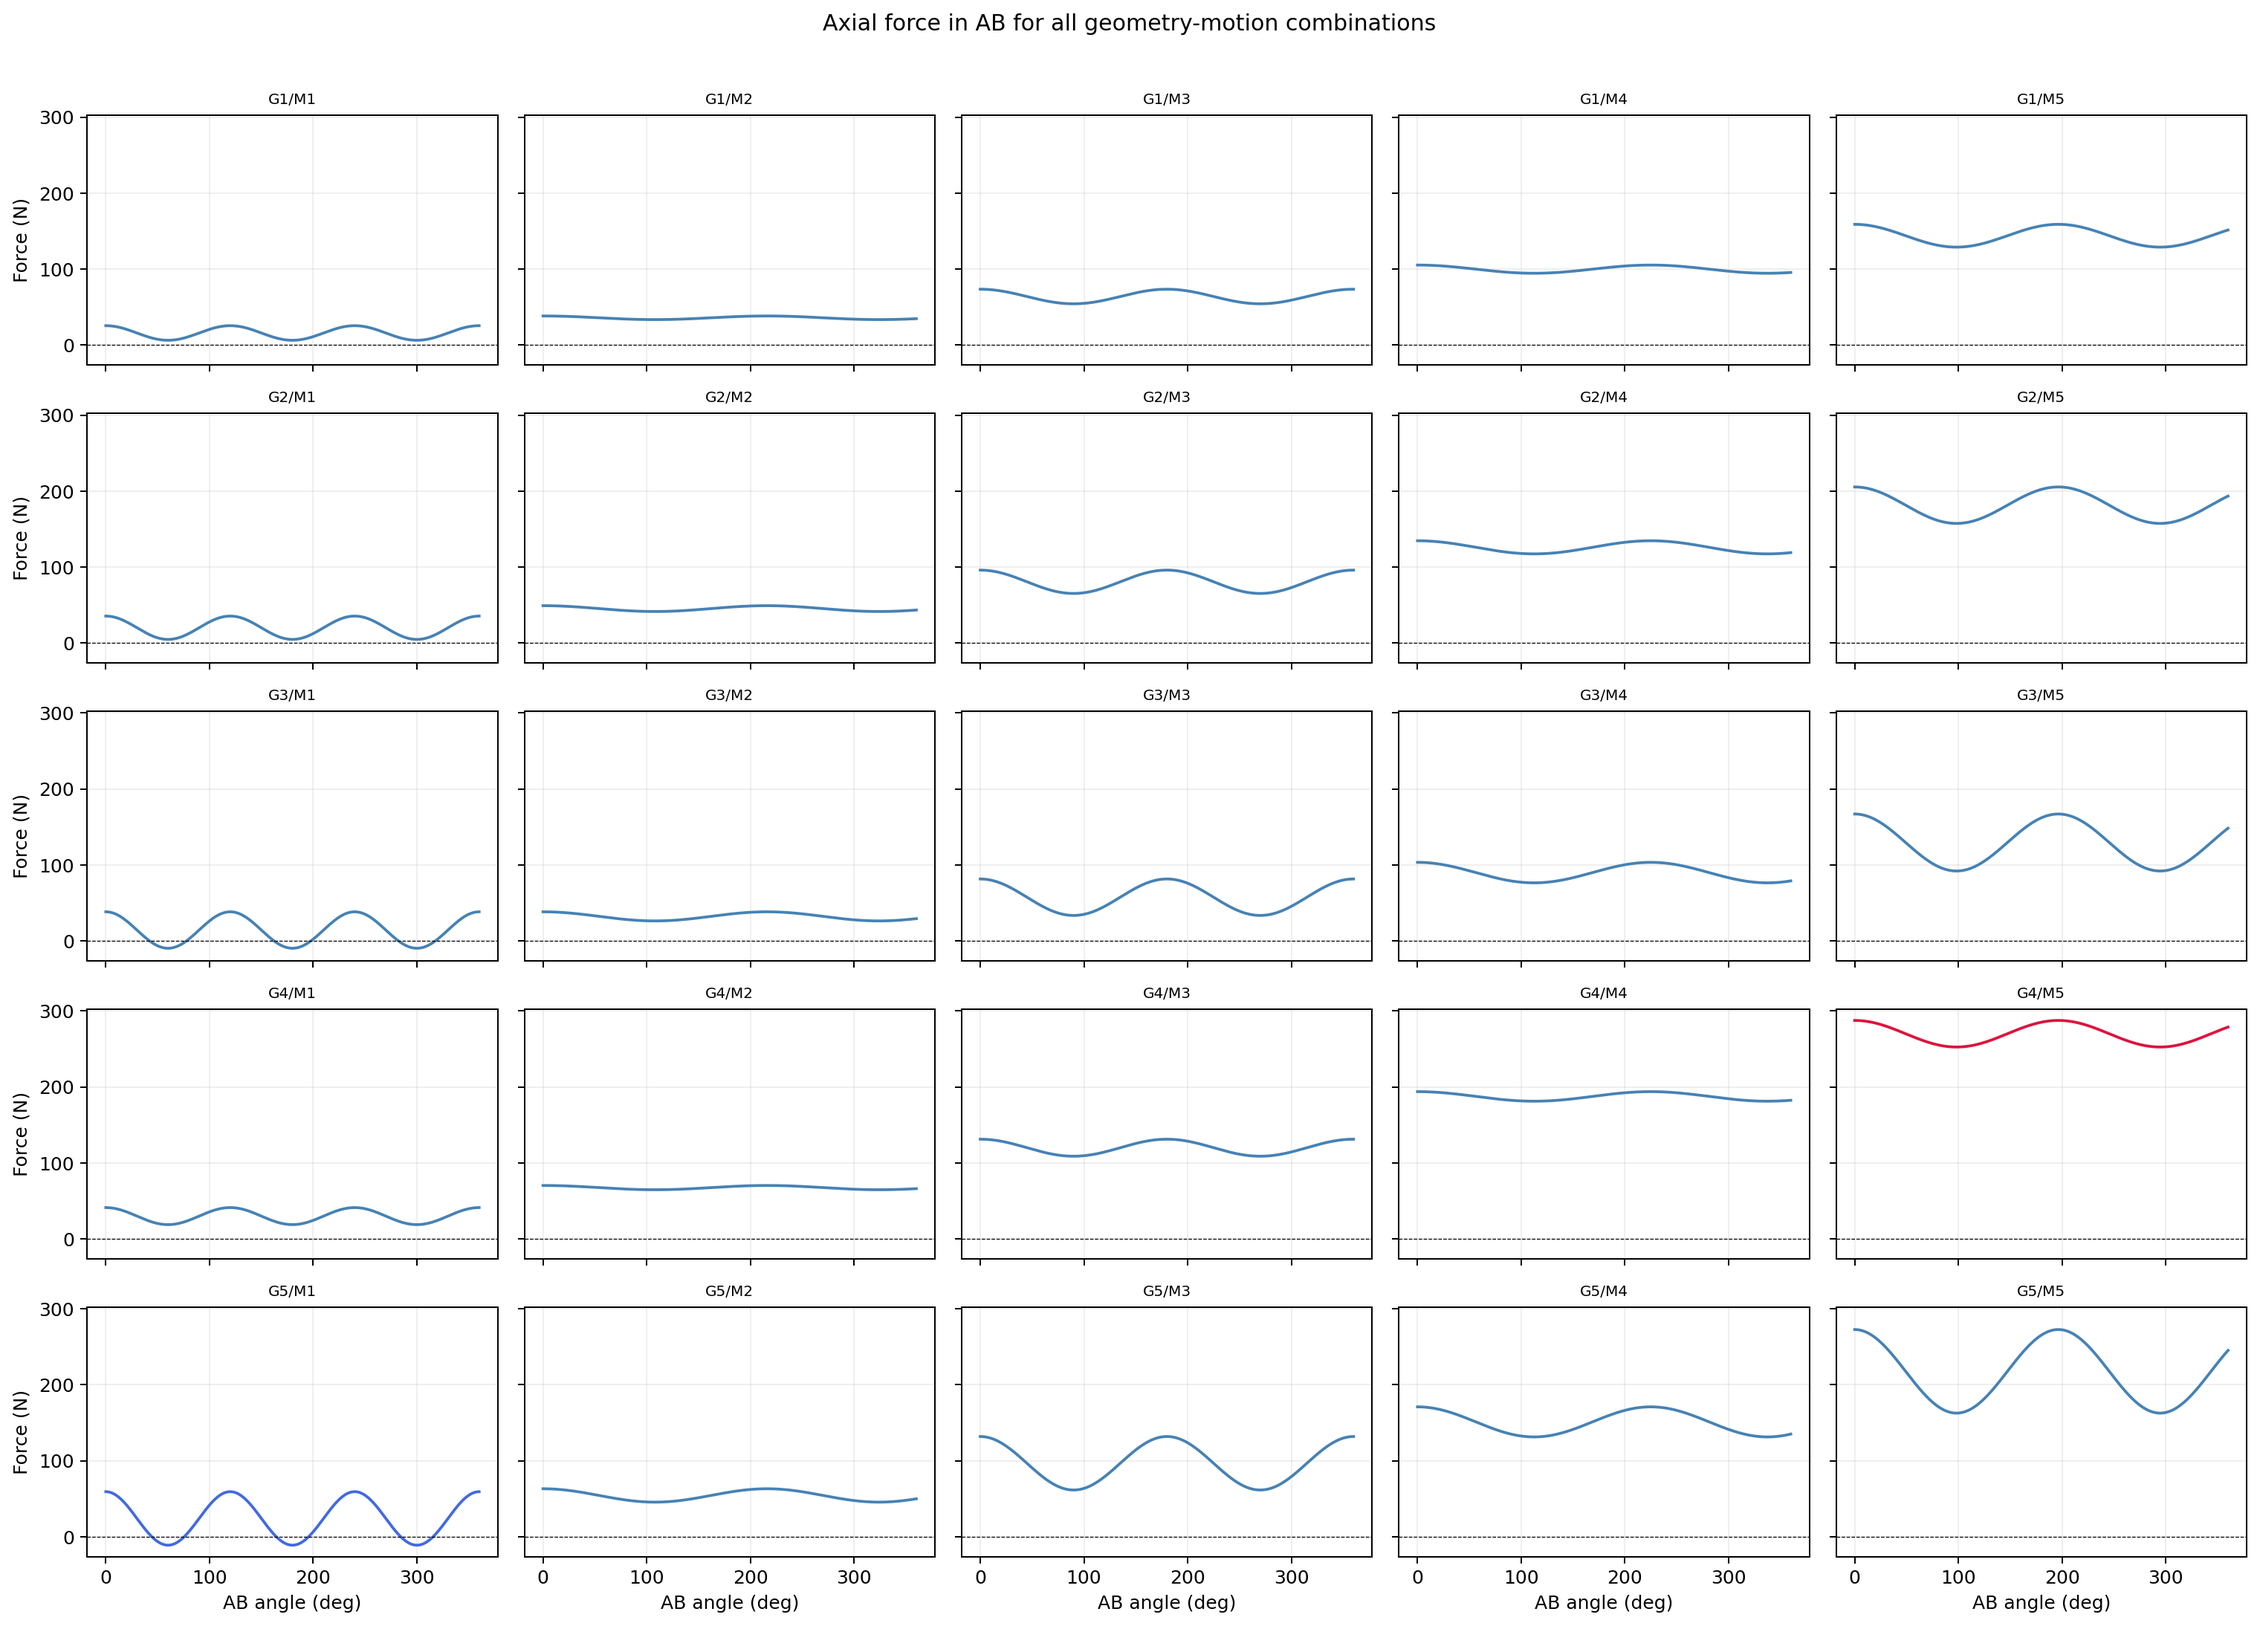
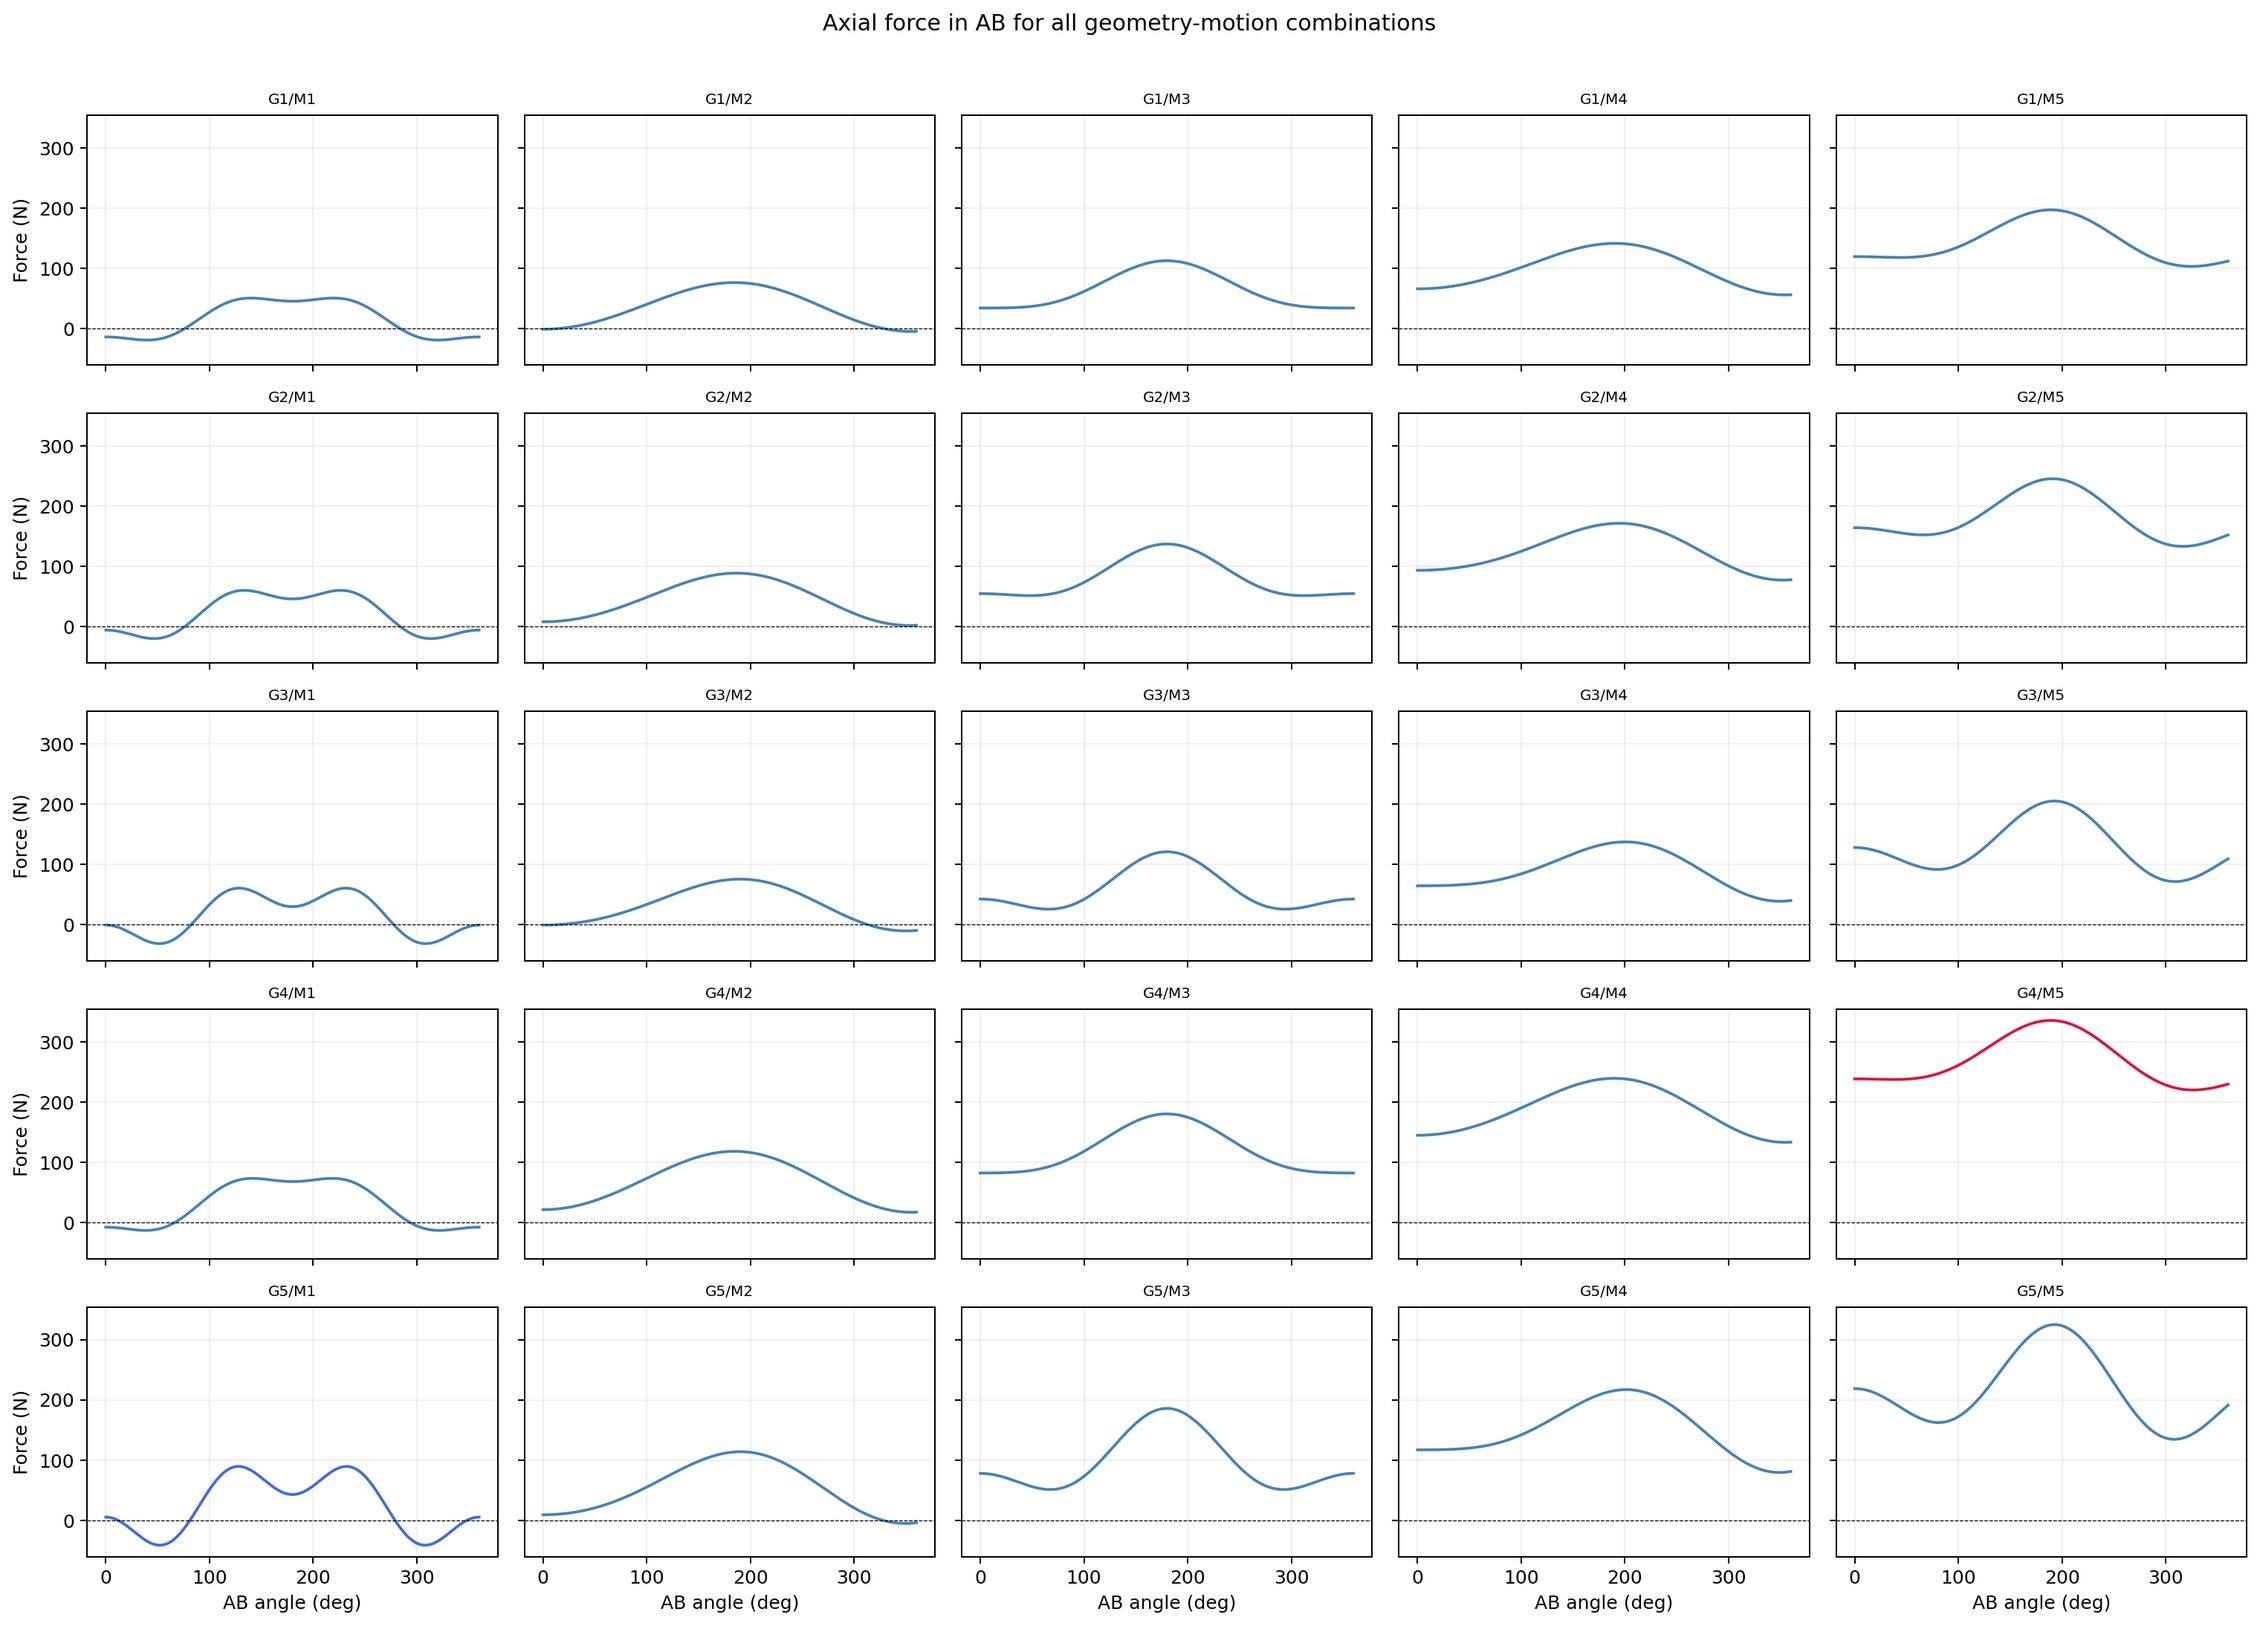
Add gravity support and regenerate assignment outputs

diff --git a/src/mechanism_assignment.py b/src/mechanism_assignment.py
@@ -12,7 +12,8 @@ Modeling assumptions match the assignment statement:
 - Planar rigid links.
 - Lumped masses at B and C.
 - Constant angular velocities.
-- No gravity/aerodynamic/deformation effects.
+- Optional uniform gravity term (configurable).
+- No aerodynamic/deformation effects.
 """
 
 from dataclasses import dataclass
@@ -56,6 +57,7 @@ class SimulationResult:
     length_bc: float
     mass_b: float
     mass_c: float
+    gravity_m_s2: float
     omega_ab: float
     omega_bc_clockwise: float
     time: np.ndarray
@@ -125,6 +127,7 @@ def simulate_all(
     geometries: Iterable[GeometryScenario],
     motions: Iterable[MotionScenario],
     num_steps: int = 721,
+    gravity_m_s2: float = 9.81,
 ) -> list[SimulationResult]:
     """Run all Cartesian combinations of geometry and motion scenarios."""
 
@@ -136,6 +139,7 @@ def simulate_all(
                     geometry=geometry,
                     motion=motion,
                     num_steps=num_steps,
+                    gravity_m_s2=gravity_m_s2,
                 )
             )
     return results
@@ -145,15 +149,18 @@ def simulate_one_rotation(
     geometry: GeometryScenario,
     motion: MotionScenario,
     num_steps: int = 721,
+    gravity_m_s2: float = 9.81,
 ) -> SimulationResult:
     """Simulate one full 0-360 deg rotation of AB for one geometry-motion pair.
 
     Steps:
     1) Build angular/time arrays.
     2) Compute kinematics of B and C.
-    3) Compute dynamic force required for lumped masses.
+    3) Compute force required for lumped masses (inertia + gravity).
     4) Project onto AB axis to get signed axial force in AB.
     """
+    if gravity_m_s2 < 0.0:
+        raise ValueError("gravity_m_s2 must be >= 0.")
 
     # AB angle sampled over one full turn.
     theta = np.linspace(0.0, 2.0 * np.pi, num_steps)
@@ -185,10 +192,20 @@ def simulate_one_rotation(
     # Net dynamic force required to accelerate masses at B and C.
     dynamic_force = geometry.mass_b * a_b + geometry.mass_c * a_c
 
+    # Total gravity force on lumped masses (negative y direction).
+    total_gravity_force = np.array(
+        [0.0, -(geometry.mass_b + geometry.mass_c) * gravity_m_s2],
+        dtype=float,
+    )
+
+    # Net force the mechanism must provide to satisfy m*a with gravity:
+    # F_links + F_gravity = m*a  ->  F_links = m*a - F_gravity
+    required_link_force = dynamic_force - total_gravity_force
+
     # Positive axial force means tension in AB.
-    # Dynamic projection gives force on masses along AB, so sign is reversed.
+    # Projection gives force applied to masses along AB, so sign is reversed.
     # np.einsum("ij,ij->i", ...) computes row-wise dot products efficiently.
-    axial_force_ab = -np.einsum("ij,ij->i", dynamic_force, u_ab)
+    axial_force_ab = -np.einsum("ij,ij->i", required_link_force, u_ab)
 
     return SimulationResult(
         geometry_name=geometry.name,
@@ -197,6 +214,7 @@ def simulate_one_rotation(
         length_bc=geometry.length_bc,
         mass_b=geometry.mass_b,
         mass_c=geometry.mass_c,
+        gravity_m_s2=gravity_m_s2,
         omega_ab=motion.omega_ab,
         omega_bc_clockwise=motion.omega_bc_clockwise,
         time=time,

diff --git a/run_assignment.py b/run_assignment.py
@@ -46,6 +46,12 @@ def parse_args() -> argparse.Namespace:
         default=721,
         help="Number of simulation steps over 0-360 deg of AB.",
     )
+    parser.add_argument(
+        "--gravity",
+        type=float,
+        default=9.81,
+        help="Gravity magnitude in m/s^2. Use 0 to disable gravity effects.",
+    )
     return parser.parse_args()
 
 
@@ -54,6 +60,8 @@ def main() -> None:
 
     # Parse user-provided CLI options (or defaults).
     args = parse_args()
+    if args.gravity < 0.0:
+        raise ValueError("--gravity must be >= 0.")
 
     # Resolve absolute paths for robustness across working directories.
     scenario_path = Path(args.scenarios).resolve()
@@ -66,7 +74,12 @@ def main() -> None:
     geometries, motions = load_scenarios(scenario_path)
 
     # Simulate every geometry-motion combination.
-    results = simulate_all(geometries=geometries, motions=motions, num_steps=args.steps)
+    results = simulate_all(
+        geometries=geometries,
+        motions=motions,
+        num_steps=args.steps,
+        gravity_m_s2=args.gravity,
+    )
 
     # Find global tension/compression extreme cases across all combinations.
     max_tension_result, max_compression_result = find_extremes(results)
@@ -119,6 +132,7 @@ def main() -> None:
     # Print quick run summary in terminal.
     print(f"Completed {len(results)} simulations.")
     print(f"Output directory: {output_dir}")
+    print(f"Gravity used: {args.gravity:.3f} m/s^2")
     print(
         "Highest tensile case:",
         max_tension_result.combo_id,

diff --git a/output/engineering_insight.md b/output/engineering_insight.md
@@ -1,7 +1,7 @@
 # Engineering Insight
 
-- Highest tensile load: `G4__M5` with `F = 287.500 N` at `AB angle = 0.0 deg`
-- Highest compressive load: `G5__M1` with `F = -11.000 N` at `AB angle = 180.0 deg`
+- Highest tensile load: `G4__M5` with `F = 335.463 N` at `AB angle = 189.0 deg`
+- Highest compressive load: `G5__M1` with `F = -41.175 N` at `AB angle = 308.0 deg`
 - Primary load driver in this scenario set: `omega_ab`
 
 ## Quick Explanation
@@ -10,9 +10,9 @@
 - In this scenario set, `omega_ab` has the strongest linear trend with extreme load magnitude.
 
 ## Correlation Snapshot
-- `length_ab`: correlation = +0.282
-- `length_bc`: correlation = +0.094
-- `mass_b`: correlation = +0.330
-- `mass_c`: correlation = +0.109
-- `omega_ab`: correlation = +0.875
-- `omega_bc_clockwise`: correlation = +0.529
+- `length_ab`: correlation = +0.303
+- `length_bc`: correlation = +0.107
+- `mass_b`: correlation = +0.366
+- `mass_c`: correlation = +0.128
+- `omega_ab`: correlation = +0.871
+- `omega_bc_clockwise`: correlation = +0.486
